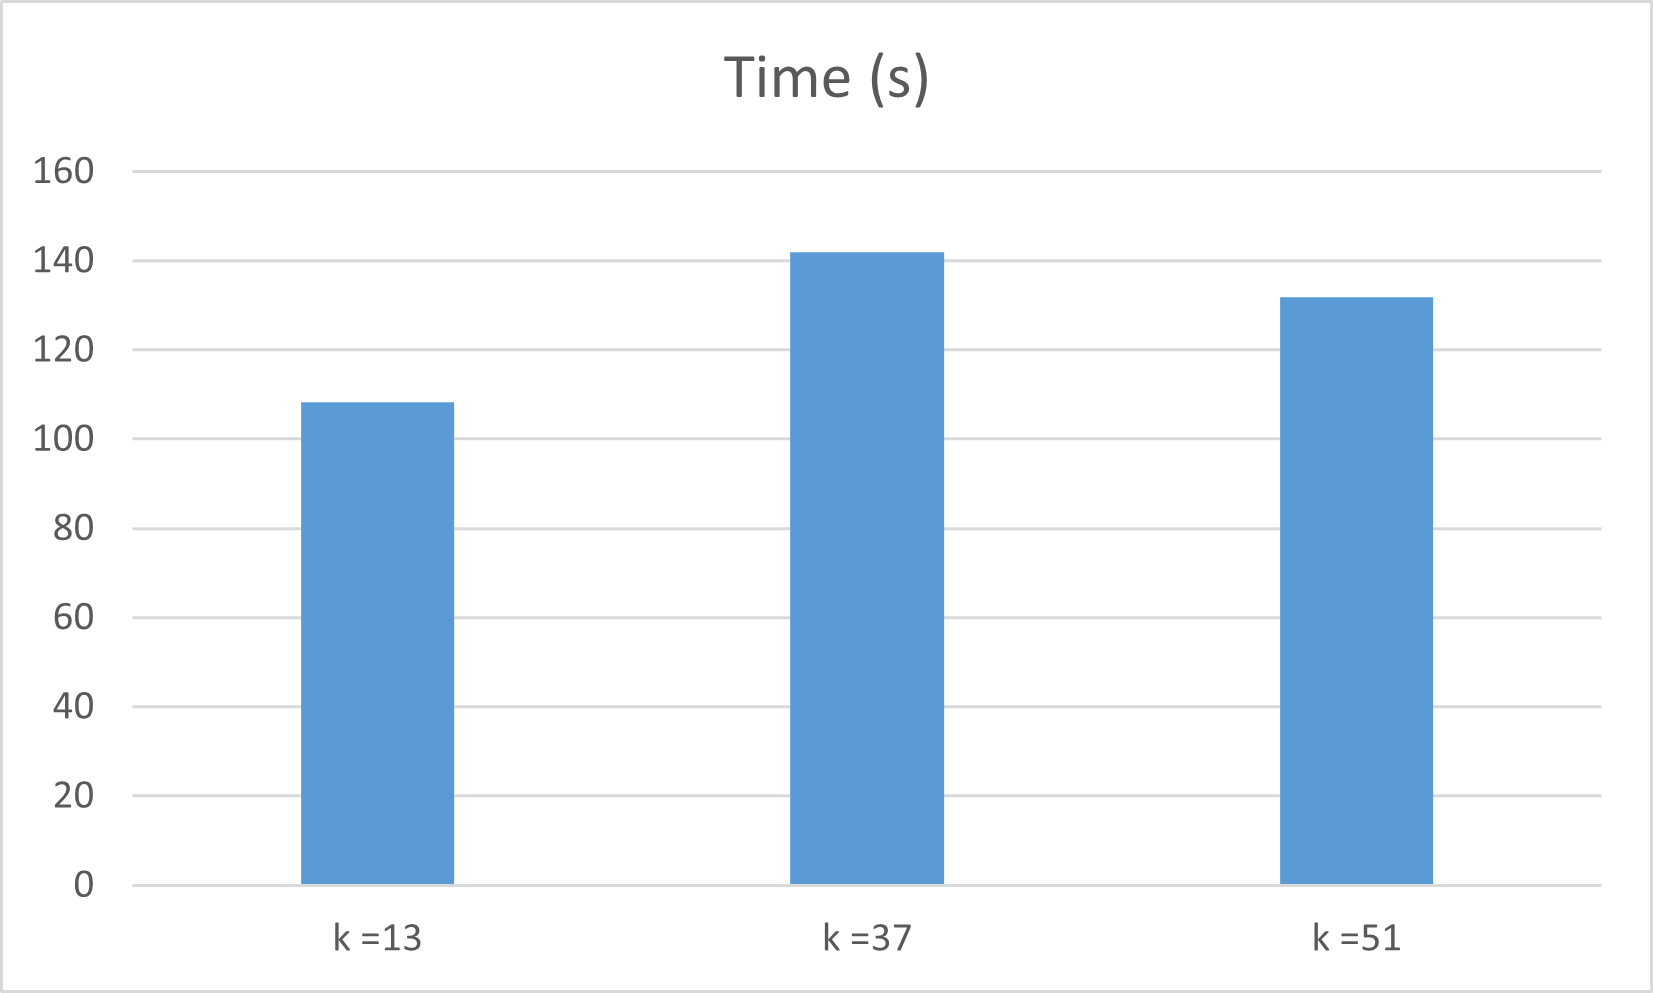
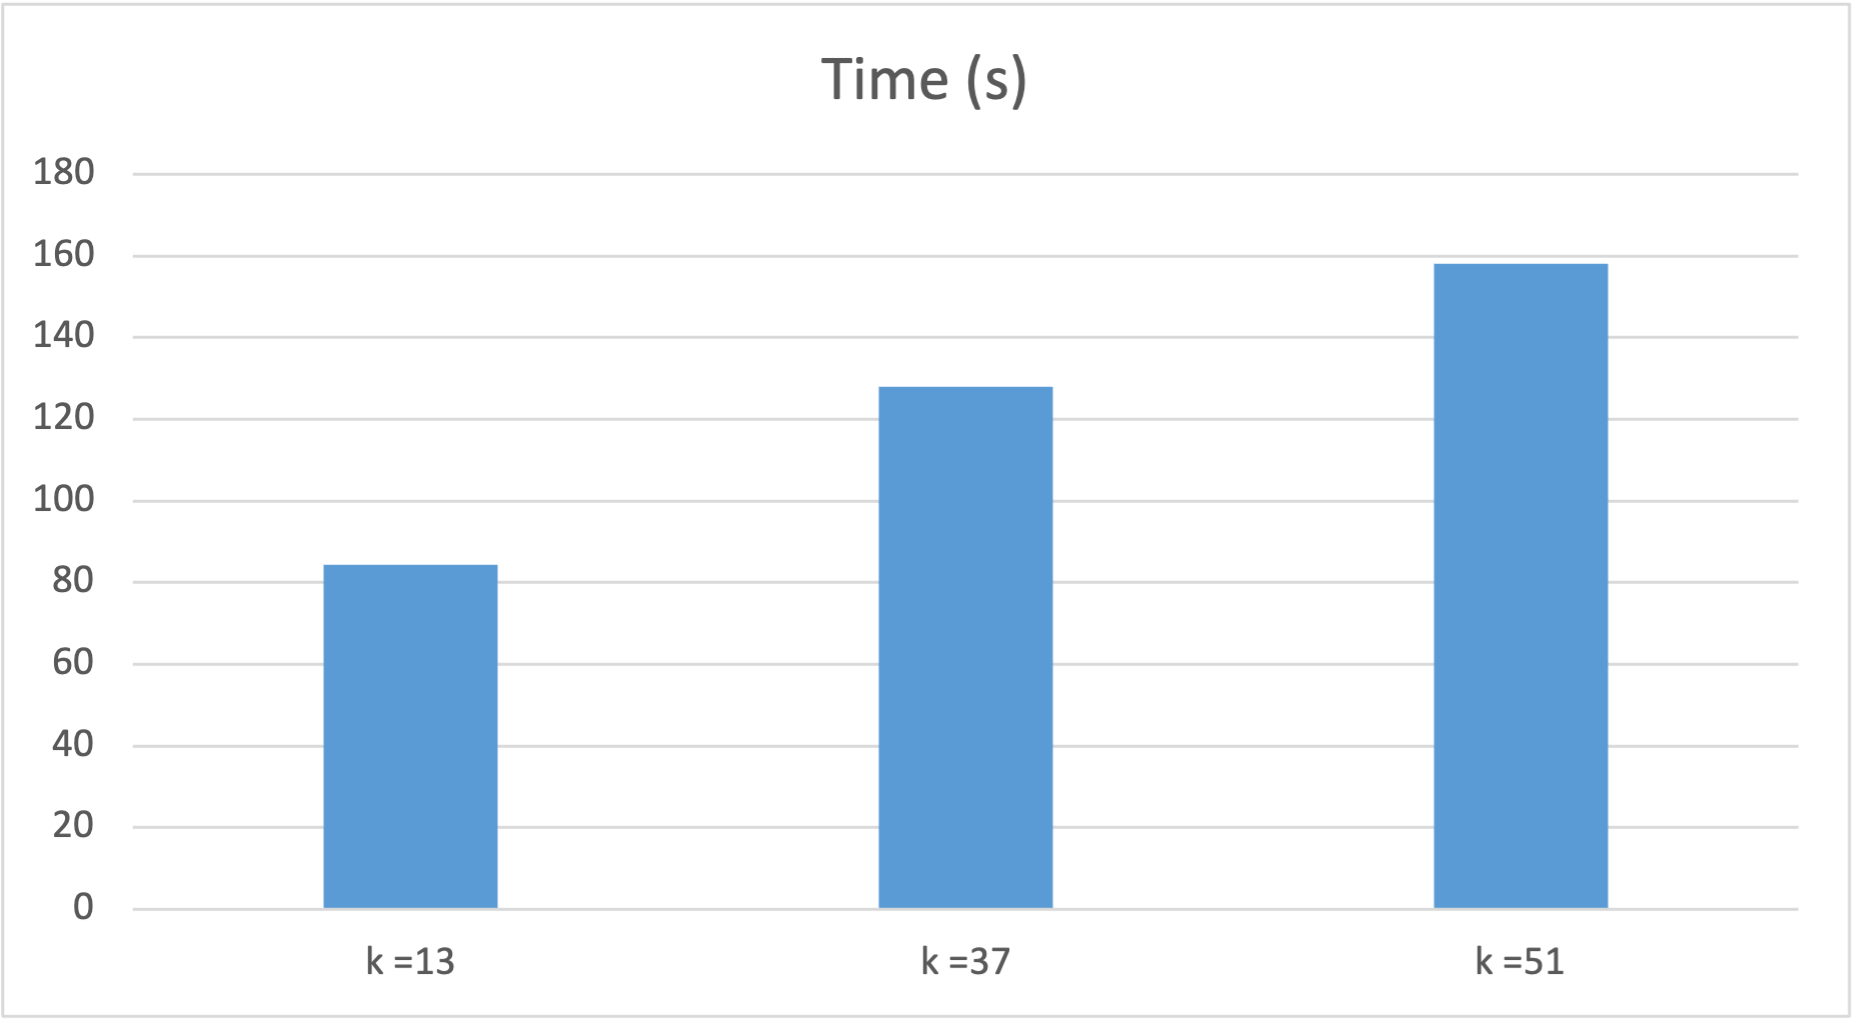
read me and experiments

diff --git a/de_bruijn.py b/de_bruijn.py
@@ -487,6 +487,9 @@ def create_contigs(graph: dict):
         ):
             visited_in_contig.add(curr_node)
             neighbours = graph[curr_node]
+
+            # here, if there's still a node with outdegree > 1,
+            # I will arbitrarily pick the highest weight.
             next_node = max(neighbours, key=neighbours.get)
             contig += next_node[-1]  # add last char to contig
             curr_node = next_node

diff --git a/README.md b/README.md
@@ -2,7 +2,9 @@
 
 ## How to Run
 
-command-line arguments:
+NOTE: One run could take about 1-5 minutes. So, please wait for the program to be finished.
+
+Command-line arguments:
 
 - The filename of the read set (a file in FASTQ format) (--reads; required, no default value).
   The
@@ -17,6 +19,20 @@ Example:
 ### Commands Used
 
 `hyperfine "python de_bruijn.py --reads ./simulated-reads/covid.fasta_simulated-errors-tips-bubbles.fq --kmer-size 13" "python de_bruijn.py --reads ./simulated-reads/covid.fasta_simulated-errors-tips-bubbles.fq --kmer-size 37" "python de_bruijn.py --reads ./simulated-reads/covid.fasta_simulated-errors-tips-bubbles.fq --kmer-size 51"`
+
+### Sample Output For Each Command
+
+#### kmer = 13
+
+![](./pictures/kmer13.png)
+
+#### kmer = 37
+
+![](./pictures/kmer37.png)
+
+#### kmer = 51
+
+![](./pictures/kmer51.png)
 
 ### Experiment 1 answers
 
@@ -39,13 +55,29 @@ b. `How does the runtime performance of your implementation change as you adjust
 
 ![](./pictures/time.png)
 
-- Based on the graph above, we can see that the runtime of the program increases as we increase the value of k. Yes, this is what I expected. In my implementation, I believe the part that take the longest amount of time is handling the errors. So, as we increase the amount of k, this also means that tips and bubbles could potentially have longer chain of nodes. Therefore, the function that handles bubbles/ tips removal could potential take a longer amount of time. Furthermore,
+- Based on the graph above, we can see that the highest runtime occurs when k = 51, and the lowest is when k = 13. The runtime performance change as we adjust k, because the structure of the graph depends directly on the k-mers generated,which in turn depend on the k-size. Furthermore, as we change the k size, it is also important to note that the structure of the errors (bubbles and tips) also changes with k which impacts the runtime. Yes, this is what I expected.
+
+  As k increases, each node in the graph represents a longer sequence. During graph creation, the program spends more time checking if each pair of nodes already exists in the graph. Since larger k-sizes result in longer sequences, the time required for these operations increases, contributing to longer runtimes.
+
+  Furthermore, k also influences the behaviour of errors in the graph, such as bubbles and tips. So, with the larget k-size this means there could potentialy be more unique nodes in the graph, which could result in a longer chain of tips and bubbles. Thus, longer tips to be pruned and bubbles to be popped, which will increase the runtime performance.
 
 c. `How does the memory usage of your implementation change as you adjust the value of k? Why does the memory usage change as you adjust k (if at all)? Is this what you expected? Why or why not? `
 
 ![](./pictures/memory.png)
 
-- Based on the graph above, the memory usage decreases as we increase the value of k. Yes, this is what I expected. In my opinion, since we increase k
+- Based on the graph above, we can see that the highest memory usage occurs when k = 51, and the lowest occurs when k = 13. The memory usage changes as we adjust k, for the same reasons mentioned in part b. The k-size directly affects the structure of the graph and also the structure of errors. Yes, this is what I expected.
+
+  Why? Because as we increase the size of k, this means that a node will have a longer sequence, resulting in a larger hash value that needs to be stored in the dictionary (since I used a dictionary for the graph storage). This requires storing bigger sequences in memory, thus leading to larger memory usage.
+
+  Furthermore, in terms of errors, as stated previously, a larger k-size could result in a longer chain of tips and bubbles. Thus, more nodes and edges with long sequences need to be stored in the graph, resulting in increased memory usage.
 
 d.`How is the output (contigs) from your implementation affected by the change in k? Is this what you expected? Why or why not?`
-![](./pictures/time.png)
+![](./pictures/contigs.png)
+
+NOTE: in create_contigs, I explained that after error removals, if the graph still has a node that has outdegree > 1, I arbitrarily choose the path with the highest weight for creating the contigs.
+
+- Based on the graph above, we can see that as k increases, the number of contigs generated decreases. I believe that the change in k affects the contig output because of how nodes, edges, and errors are created in the graph, therfore changing the structure of the graph. Yes, this is what I expected.
+
+  Why? From what I expect, I believe that a graph with a lower k-size will potentially have more tips and bubbles scattered across the graph. Shorter k-mers are more likely to result in the assembler generating different nodes and edges, leading to the creation of smaller contigs across the graph.
+
+  On the other hand, a larger k-size represents longer sequences. It is less likely for the graph to generate more nodes and edges since there are fewer possible k-mers that are used to make the nodes. Thus, the assembler is less likely to generate small and scattered contigs.
